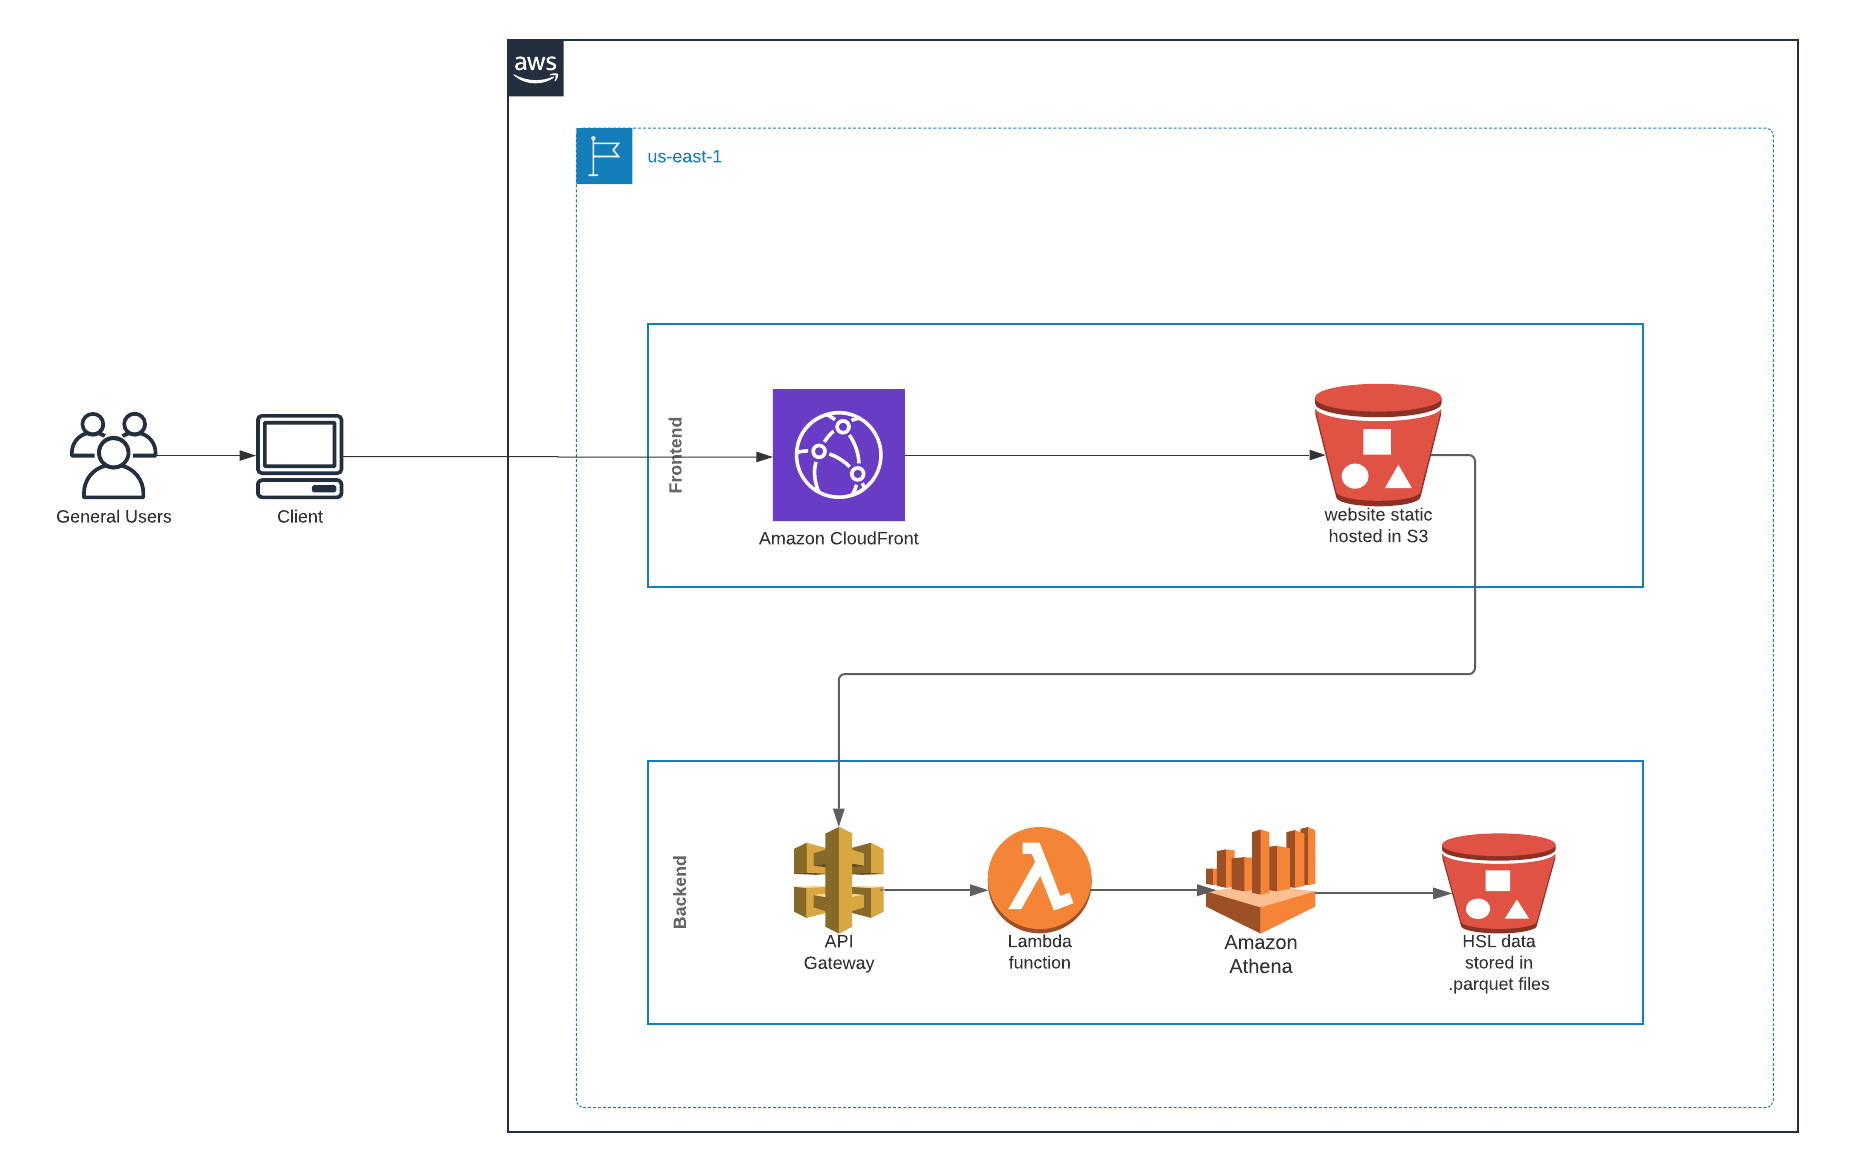
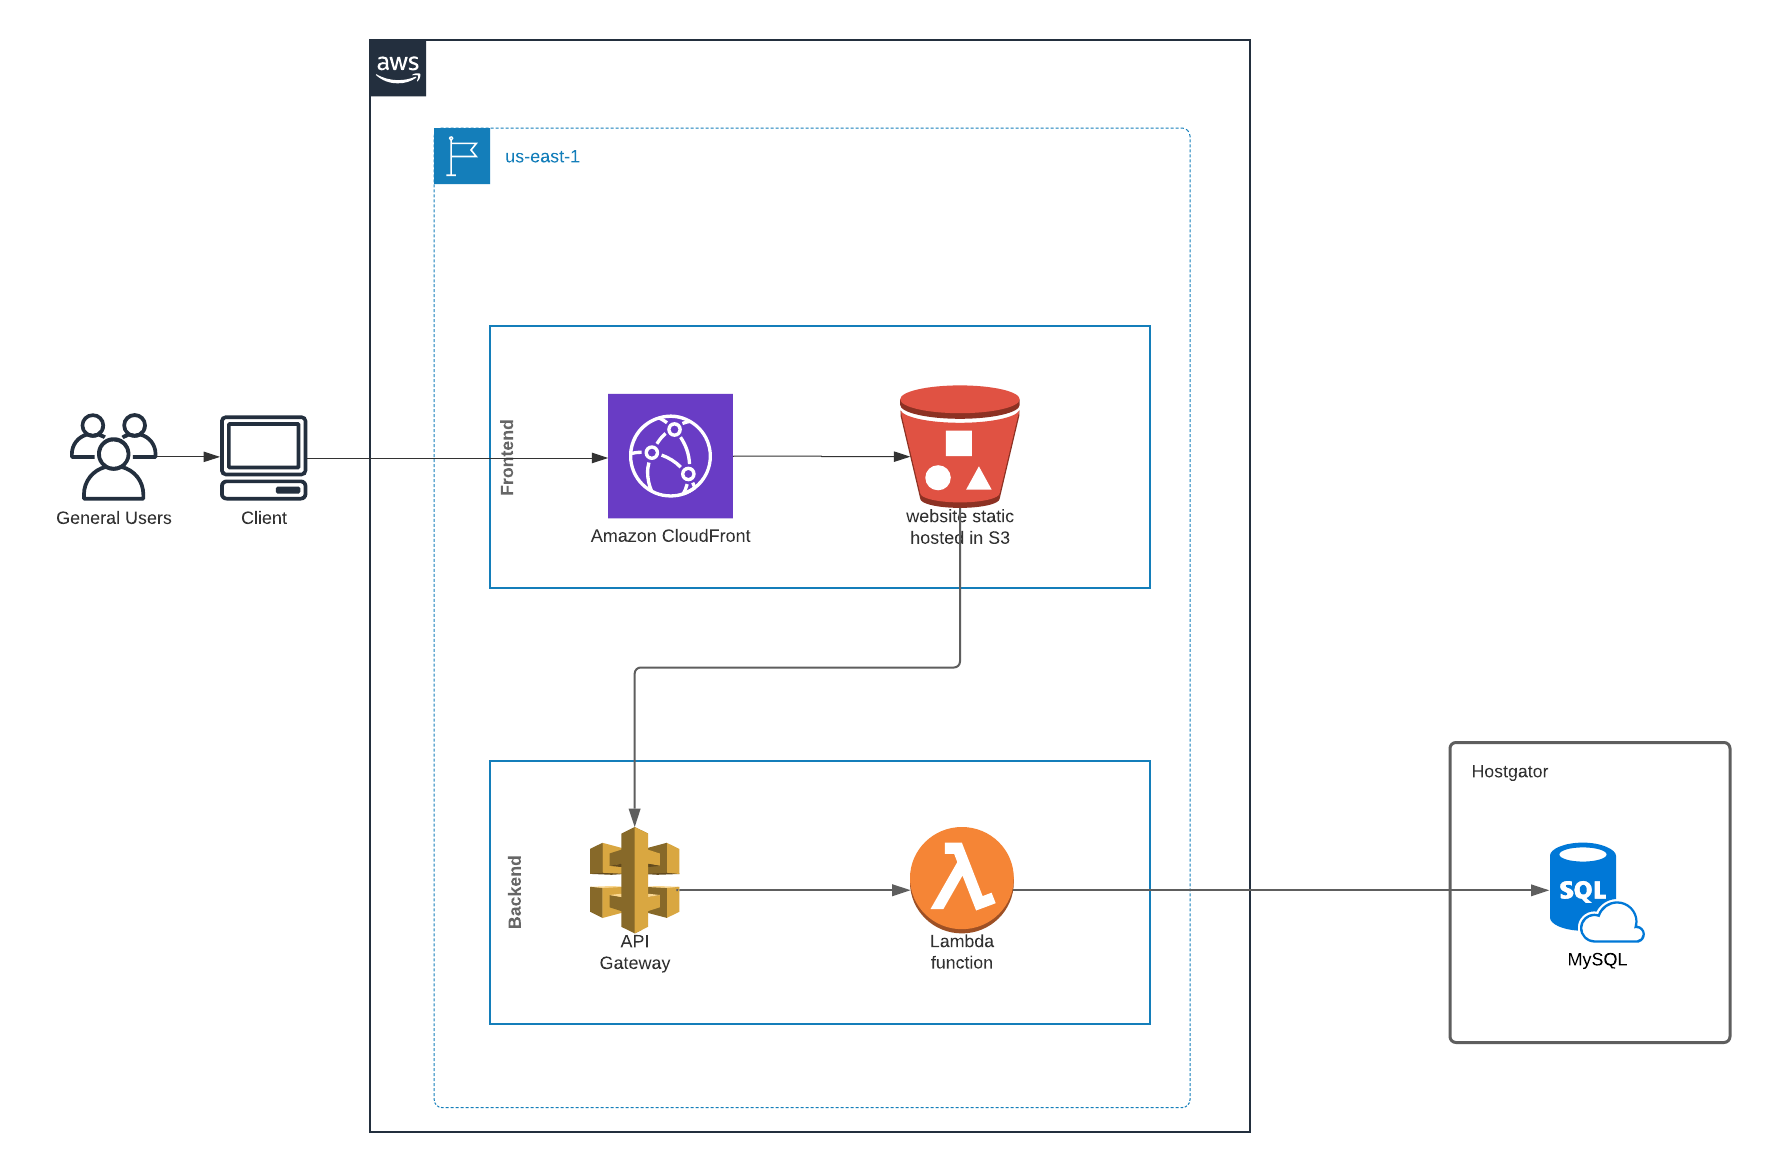
Some refactoring

diff --git a/front/src/components/shared/charts/pie-chart.vue b/front/src/components/shared/charts/pie-chart.vue
@@ -1,0 +1,83 @@
+<template>
+  <div v-show="chartData.length" class="component-wrapper">
+    <div>
+      <GChart
+        ref="gchart"
+        type="PieChart"
+        :data="[legends].concat(chartData)"
+        :options="chartOptions"
+        @ready="onReady"
+      />
+    </div>
+  </div>
+</template>
+
+<script>
+import { GChart } from 'vue-google-charts'
+
+export default {
+  components: {
+    GChart
+  },
+  props: {
+    legends: {
+      default: () => [],
+      type: Array
+    },
+    chartData: {
+      default: () => [],
+      type: Array
+    },
+    chartOptions: {
+      default: () => ({
+        chartArea: { height: 185 },
+        tooltip: { text: 'percentage' },
+        colors: [
+          '#ff6161',
+          '#50e3c2',
+          '#58d0ff',
+          '#ffc935',
+          '#8479ff',
+          '#79ff89',
+          '#ff79d2',
+          '#494f4c'
+        ]
+      }),
+      type: Object
+    }
+  },
+  watch: {
+    chartData: {
+      handler() {
+        this.fixTooltipBug()
+      },
+      deep: true
+    }
+  },
+  methods: {
+    /* Resolves bug that makes tooltip flickering */
+    fixTooltipBug() {
+      const gchart = this.$refs.gchart.$el
+      const htmlCollection = gchart.getElementsByTagName('svg')
+      setTimeout(() => {
+        const svg = htmlCollection[0]
+        if (svg)
+          if (svg.children.length > 0)
+            svg.children[svg.children.length - 1].setAttribute(
+              'pointer-events',
+              'none'
+            )
+      }, 100)
+    },
+    onReady() {
+      this.fixTooltipBug()
+    }
+  }
+}
+</script>
+
+<style lang="postcss" scoped>
+.component-wrapper {
+  user-select: none;
+}
+</style>

diff --git a/front/src/components/shared/charts/line-chart.vue b/front/src/components/shared/charts/line-chart.vue
@@ -1,0 +1,58 @@
+<template>
+  <div v-show="chartData.length" class="component-wrapper">
+    <div>
+      <GChart
+        type="LineChart"
+        :data="[legends].concat(chartData)"
+        :options="chartOptions"
+        class="px-0"
+      />
+    </div>
+  </div>
+</template>
+
+<script>
+import { GChart } from 'vue-google-charts'
+
+export default {
+  components: {
+    GChart
+  },
+  props: {
+    legends: {
+      default: () => [],
+      type: Array
+    },
+    chartData: {
+      default: () => [],
+      type: Array
+    },
+    chartOptions: {
+      default: () => ({
+        curveType: 'function',
+        legend: { position: 'none' },
+        chartArea: { left: 38, width: '95%', height: '80%' },
+        explorer: { actions: ['dragToZoom', 'rightClickToReset'] },
+        colors: [
+          '#ff6161',
+          '#50e3c2',
+          '#58d0ff',
+          '#ffc935',
+          '#8479ff',
+          '#79ff89',
+          '#ff79d2',
+          '#494f4c'
+        ]
+      }),
+      type: Object
+    }
+  }
+}
+</script>
+
+<style lang="postcss" scoped>
+.component-wrapper {
+  position: relative;
+  user-select: none;
+}
+</style>

diff --git a/front/src/pages/database/Exames.vue b/front/src/pages/database/Exames.vue
@@ -21,7 +21,6 @@ export default {
       exames: [],
       headers: [
         { text: 'id_exame', value: 'id_exame'},
-        { text: 'id_paciente', value: 'id_paciente'},
         { text: 'id_atendimento', value: 'id_atendimento'},
         { text: 'dt_coleta', value: 'dt_coleta'},
         { text: 'id_local_exame', value: 'id_local_exame'},
@@ -44,7 +43,7 @@ export default {
         const cache = localStorage.getItem('exames')
 
         // Get data from cache. Avoids overloading API.
-        if(cache){
+        if(false){
           this.exames = JSON.parse(cache)
           return;
         }

diff --git a/front/src/pages/database/Desfechos.vue b/front/src/pages/database/Desfechos.vue
@@ -20,7 +20,6 @@ export default {
     return {
       desfechos: [],
       headers: [
-        { text: 'id_paciente', value: 'id_paciente'},
         { text: 'id_atendimento', value: 'id_atendimento'},
         { text: 'id_clinica', value: 'id_clinica'},
         { text: 'dt_desfecho', value: 'dt_desfecho'},
@@ -39,7 +38,7 @@ export default {
         const cache = localStorage.getItem('desfechos')
 
         // Get data from cache. Avoids overloading API.
-        if(cache){
+        if(false){
           this.desfechos = JSON.parse(cache)
           return;
         }

diff --git a/front/src/pages/database/Atendimentos.vue b/front/src/pages/database/Atendimentos.vue
@@ -23,6 +23,7 @@ export default {
         { text: 'id', value: 'id'},
         { text: 'dt_atendimento', value: 'dt_atendimento'},
         { text: 'id_tipo_atendimento', value: 'id_tipo_atendimento'},
+        { text: 'id_paciente', value: 'id_paciente'},
       ]
     }
   },
@@ -37,7 +38,7 @@ export default {
         const cache = localStorage.getItem('atendimentos')
 
         // Get data from cache. Avoids overloading API.
-        if(cache){
+        if(false){
           this.atendimentos = JSON.parse(cache)
           return;
         }

diff --git a/README.md b/README.md
@@ -18,7 +18,7 @@ Serviço: Hospedar o banco de dados e oferecer uma API para o frontend.
 
 Linguagem: Javascript e Serverless Framework
 
-Infraestrutura: AWS (API Gateway + Lambda functions + Athena + S3 )
+Infraestrutura: AWS (API Gateway + Lambda functions + MySQL )
 
 
 ## Frontend
